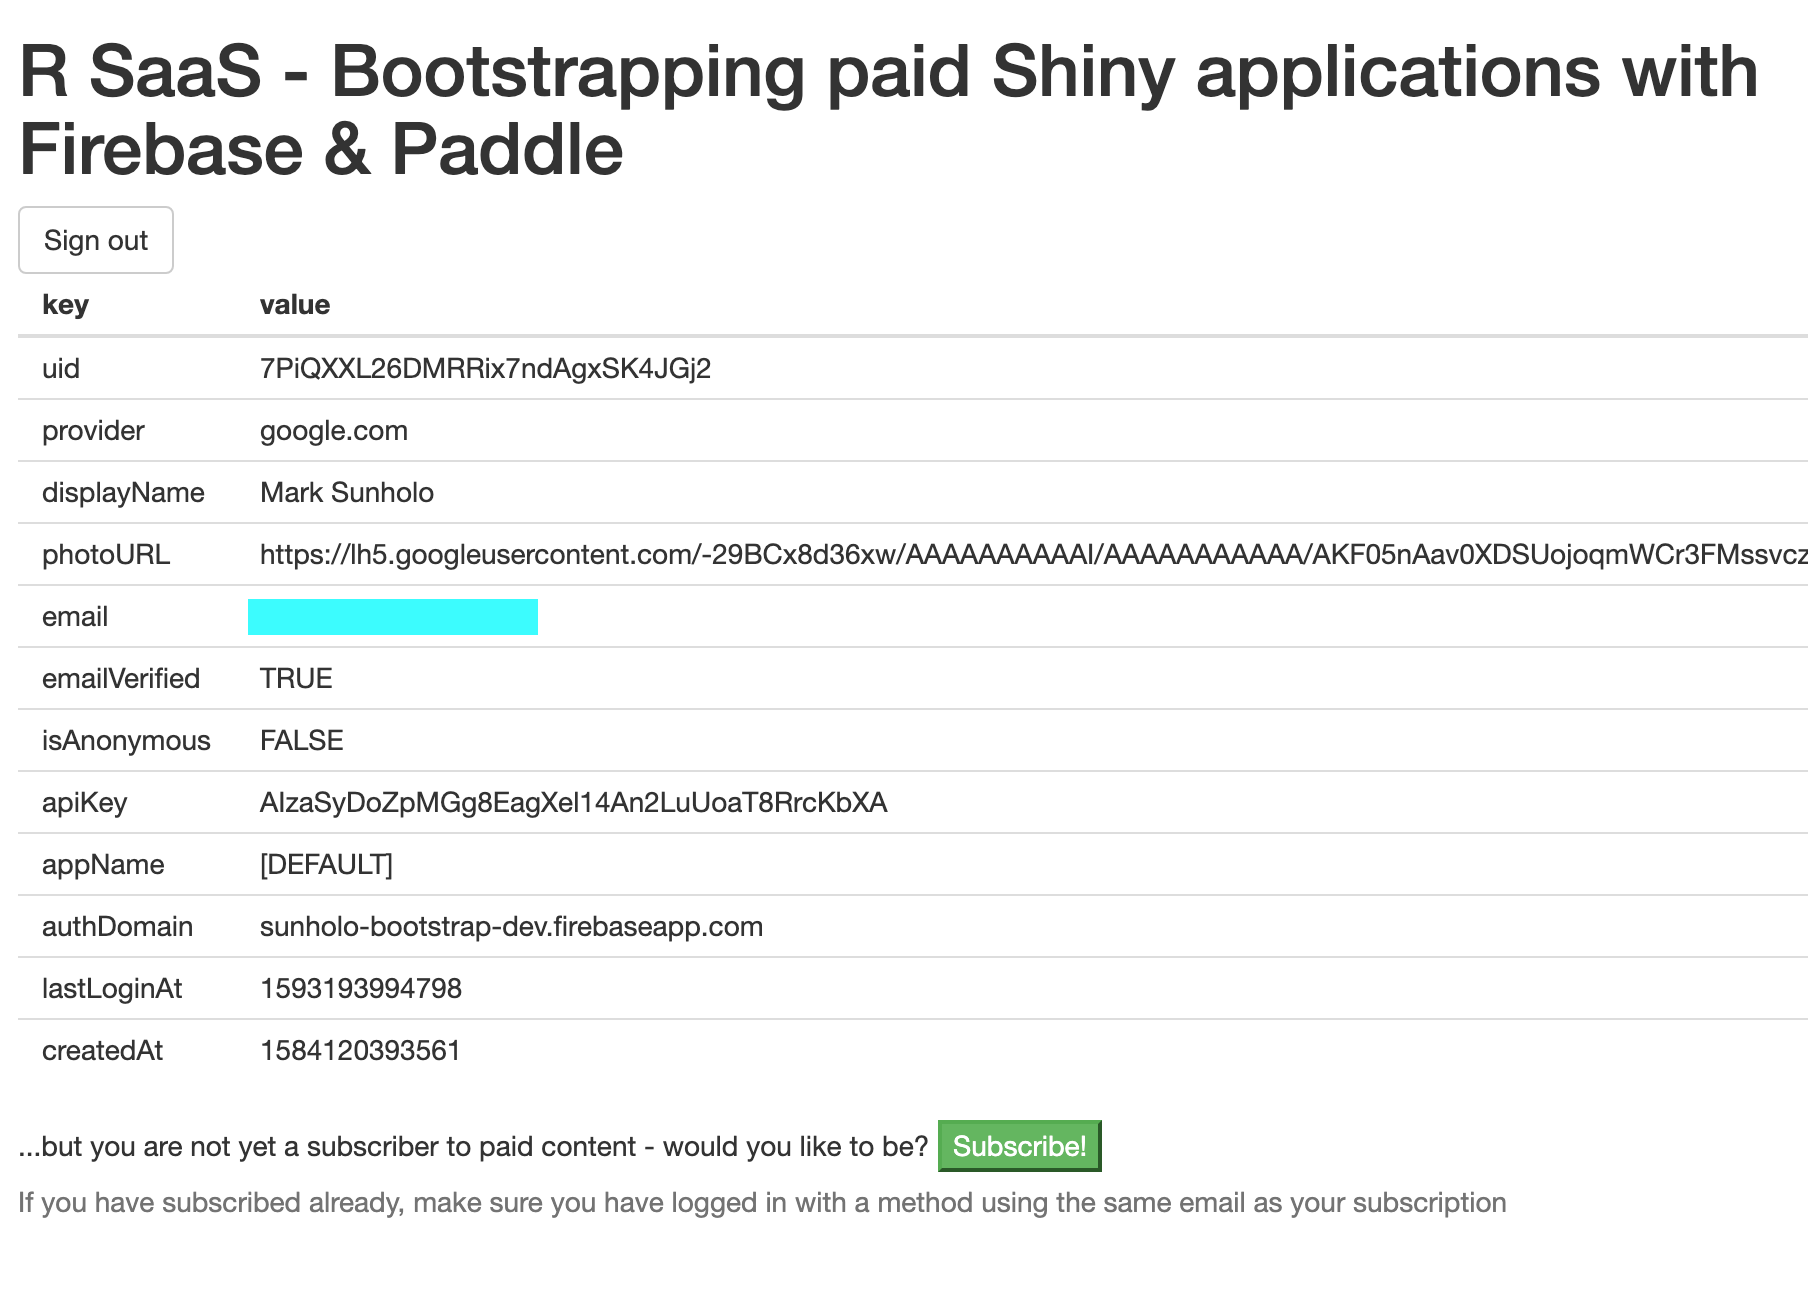
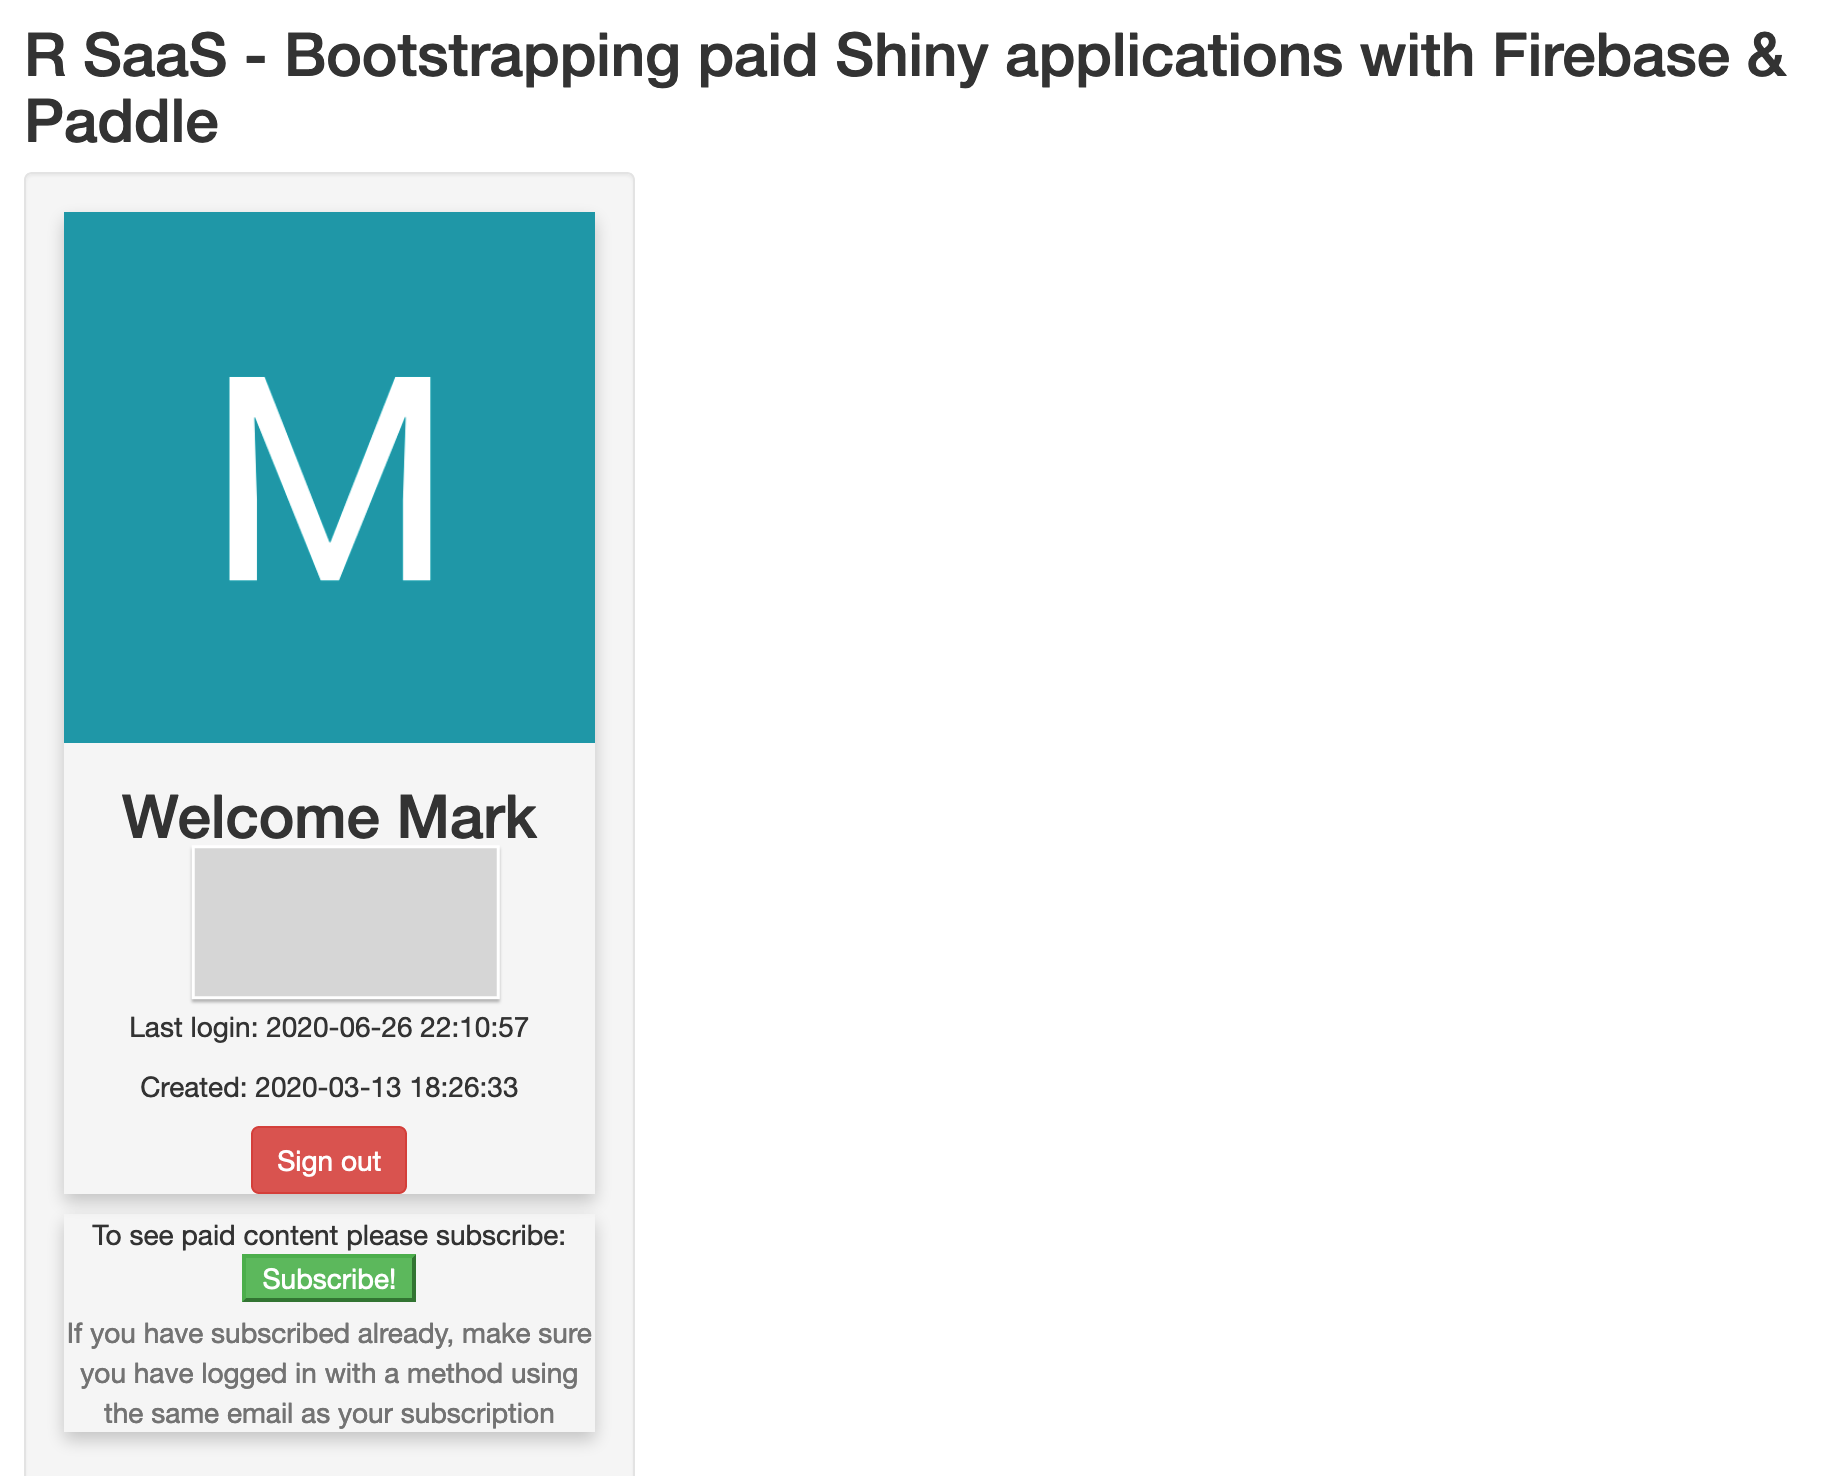
update UI CSS and new screenshots

Changed region(s): [[0.0, 0.0, 1.0, 0.9861]]

diff --git a/shiny/www/profile.css b/shiny/www/profile.css
@@ -1,0 +1,11 @@
+.card {
+  box-shadow: 0 4px 8px 0 rgba(0, 0, 0, 0.2);
+  max-width: 300px;
+  margin: auto;
+  text-align: center;
+}
+
+.email {
+  color: grey;
+  font-size: 18px;
+}
